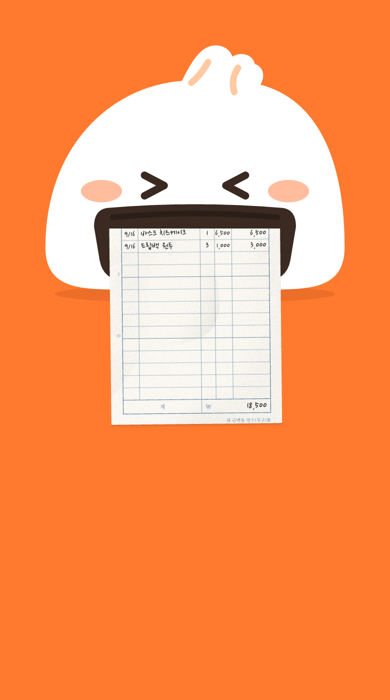
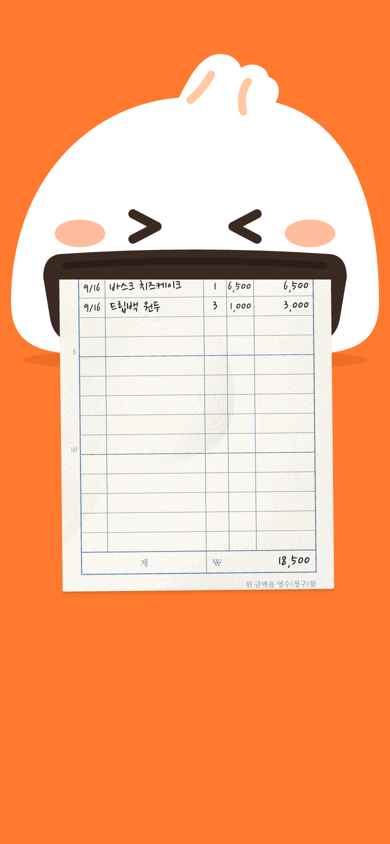
출력: "우에에에엑!"·"우욱…" 문구 빼고, 입을 더 넓게 벌려 영수증을 크게
- 옆에 늘어나던 글자와 안내 문구 제거 (안내는 "코코가 영수증을 뽑는 중…")
- 벌린 입 폭을 넓히고 출력 화면 코코를 화면보다 조금 크게(양옆 살짝 잘림), 영수증은 입 폭에 꽉 맞춰 크게

Changed region(s): [[0.0308, 0.06, 0.9846, 0.72]]

diff --git a/app/src/components/Printer.tsx b/app/src/components/Printer.tsx
@@ -26,7 +26,6 @@ type Phase = 'gag' | 'printing' | 'ready' | 'torn';
 const TEAR_DISTANCE = 130;
 const COCO_TOP = 8;
 const GAG_MS = 650; // 볼 빵빵하게 참는 시간
-const SHOUT = '우에에에엑!';
 
 interface JobProps {
   record: RecoRecord;
@@ -37,18 +36,17 @@ interface JobProps {
   outfit?: OutfitId | null;
 }
 
-/** 코코가 "우에에에엑" 하고 입에서 새 기록을 뱉어내고, 사용자가 아래로 잡아당겨 뜯어내는 과정 */
+/** 코코가 입을 크게 벌려 새 기록을 뱉어내고, 사용자가 아래로 잡아당겨 뜯어내는 과정 */
 export function PrintJob({ record, rollWidth, onDone, onCancel, outfit }: JobProps) {
   const { width: screenW } = useWindowDimensions();
   const [phase, setPhase] = useState<Phase>('gag');
   const [mood, setMood] = useState<CocoMood>('gag');
-  const [shout, setShout] = useState(0); // "우에에에엑!" 중 보이는 글자 수
 
-  // 코코를 크게 두고, 나오는 영수증은 벌린 입 폭에 맞춘다
-  const cocoSize = Math.min(screenW - 16, 440);
+  // 코코는 화면보다 크게(양옆이 살짝 잘림), 영수증은 크게 벌린 입 폭에 꽉 맞춘다
+  const cocoSize = Math.min(screenW * 1.18, 520);
   const mouthW = cocoSize * SPEW_MOUTH_WIDTH;
   const natural = sizeOf(record, rollWidth).width;
-  const { width, height } = sizeOf(record, natural > mouthW ? (rollWidth * mouthW) / natural : rollWidth);
+  const { width, height } = sizeOf(record, (rollWidth * mouthW) / natural);
   const exitY = COCO_TOP + cocoSize * COCO_RATIO * SPEW_EXIT_Y;
 
   const feed = useSharedValue(-height); // 코코 밑으로 나온 길이
@@ -58,22 +56,18 @@ export function PrintJob({ record, rollWidth, onDone, onCancel, outfit }: JobPro
   const wobble = useSharedValue(0);
   const ticker = useRef<ReturnType<typeof setInterval> | null>(null);
 
-  const shouter = useRef<ReturnType<typeof setInterval> | null>(null);
-
   useEffect(() => {
     backdrop.value = withTiming(1, { duration: 220 });
-    // 1) 우욱… 볼이 빵빵해지며 부르르
+    // 1) 볼이 빵빵해지며 부르르
     wobble.value = withRepeat(withSequence(withTiming(1, { duration: 70 }), withTiming(-1, { duration: 70 })), -1, true);
     bump();
     const start = setTimeout(() => {
-      // 2) 우에에에엑! 입을 크게 벌리고 영수증이 나온다
+      // 2) 입을 크게 벌리고 영수증이 나온다
       setPhase('printing');
       setMood('spew');
       bump();
       const duration = Math.min(3200, Math.max(1500, height * 2.4));
       ticker.current = setInterval(tick, 110);
-      setShout(1);
-      shouter.current = setInterval(() => setShout((n) => Math.min(SHOUT.length, n + 1)), Math.max(120, duration / (SHOUT.length + 2)));
       feed.value = withTiming(0, { duration, easing: Easing.bezier(0.3, 0.05, 0.7, 1) }, (finished) => {
         if (finished) scheduleOnRN(finishPrinting);
       });
@@ -81,15 +75,12 @@ export function PrintJob({ record, rollWidth, onDone, onCancel, outfit }: JobPro
     return () => {
       clearTimeout(start);
       if (ticker.current) clearInterval(ticker.current);
-      if (shouter.current) clearInterval(shouter.current);
     };
     // eslint-disable-next-line react-hooks/exhaustive-deps
   }, []);
 
   function finishPrinting() {
     if (ticker.current) clearInterval(ticker.current);
-    if (shouter.current) clearInterval(shouter.current);
-    setShout(SHOUT.length);
     cancelAnimation(wobble);
     wobble.value = withTiming(0);
     bump();
@@ -99,7 +90,6 @@ export function PrintJob({ record, rollWidth, onDone, onCancel, outfit }: JobPro
 
   function onTorn() {
     setPhase('torn');
-    setShout(0);
     setMood('happy');
   }
 
@@ -152,7 +142,6 @@ export function PrintJob({ record, rollWidth, onDone, onCancel, outfit }: JobPro
     ],
   }));
   const backdropStyle = useAnimatedStyle(() => ({ opacity: backdrop.value }));
-  const shoutStyle = useAnimatedStyle(() => ({ transform: [{ translateX: wobble.value * 2 }, { rotate: '-8deg' }] }));
   const hintStyle = useAnimatedStyle(() => ({ opacity: interpolate(pull.value, [0, 40], [1, 0.4], 'clamp') }));
 
   return (
@@ -169,16 +158,11 @@ export function PrintJob({ record, rollWidth, onDone, onCancel, outfit }: JobPro
           </Animated.View>
         </GestureDetector>
       </View>
-      {shout > 0 && (
-        <Animated.View pointerEvents="none" style={[styles.shoutBox, { top: COCO_TOP + cocoSize * COCO_RATIO * 0.2 }, shoutStyle]}>
-          <Text style={styles.shout}>{SHOUT.slice(0, shout)}</Text>
-        </Animated.View>
-      )}
 
       {phase !== 'torn' && (
         <View pointerEvents="box-none" style={styles.footer}>
           <Animated.View style={[styles.hintBox, phase === 'ready' && hintStyle]}>
-            <Text style={styles.hint}>{phase === 'ready' ? '아래로 잡아당겨 뜯어주세요 ↓' : phase === 'gag' ? '우욱…' : '코코가 영수증을 뱉는 중…'}</Text>
+            <Text style={styles.hint}>{phase === 'ready' ? '아래로 잡아당겨 뜯어주세요 ↓' : '코코가 영수증을 뽑는 중…'}</Text>
           </Animated.View>
           <Pressable onPress={onCancel} style={styles.cancel} hitSlop={10}>
             <Text style={styles.cancelText}>취소</Text>
@@ -193,15 +177,6 @@ const styles = StyleSheet.create({
   backdrop: { backgroundColor: COLORS.orange },
   feedArea: { position: 'absolute', left: 0, right: 0, bottom: 0, overflow: 'hidden' },
   coco: { position: 'absolute' },
-  shoutBox: { position: 'absolute', right: 14 },
-  shout: {
-    color: '#fff',
-    fontSize: 34,
-    fontFamily: FONTS.sansHeavy,
-    textShadowColor: 'rgba(122,44,0,0.45)',
-    textShadowOffset: { width: 2, height: 3 },
-    textShadowRadius: 0,
-  },
   footer: { position: 'absolute', left: 0, right: 0, bottom: 28, alignItems: 'center', gap: 10 },
   hintBox: { backgroundColor: '#fff', paddingHorizontal: 20, paddingVertical: 12, borderRadius: 999 },
   hint: { color: COLORS.orange, fontSize: 15, fontFamily: FONTS.sansBold },

diff --git a/app/src/components/Coco.tsx b/app/src/components/Coco.tsx
@@ -15,9 +15,9 @@ const VB_H = 320;
 export const COCO_RATIO = VB_H / VB_W;
 
 // "우에에에엑" 입: 눈 아래로 크게 벌린 입. 영수증은 입 안(SPEW_EXIT_Y)에서 나온다
-const SPEW = { left: 92, right: 308, top: 214, bottom: 292 };
+const SPEW = { left: 68, right: 332, top: 214, bottom: 292 };
 export const SPEW_EXIT_Y = 236 / VB_H;
-export const SPEW_MOUTH_WIDTH = (SPEW.right - SPEW.left - 24) / VB_W;
+export const SPEW_MOUTH_WIDTH = (SPEW.right - SPEW.left - 16) / VB_W;
 
 const TONES: Record<CocoTone, { body: string; pleat: string; blush: string; mouth: string; tongue: string; shadow: string }> = {
   orange: { body: '#fb9449', pleat: '#e8692a', blush: '#f5675b', mouth: '#ffffff', tongue: '#f06470', shadow: 'rgba(0,0,0,0.06)' },
